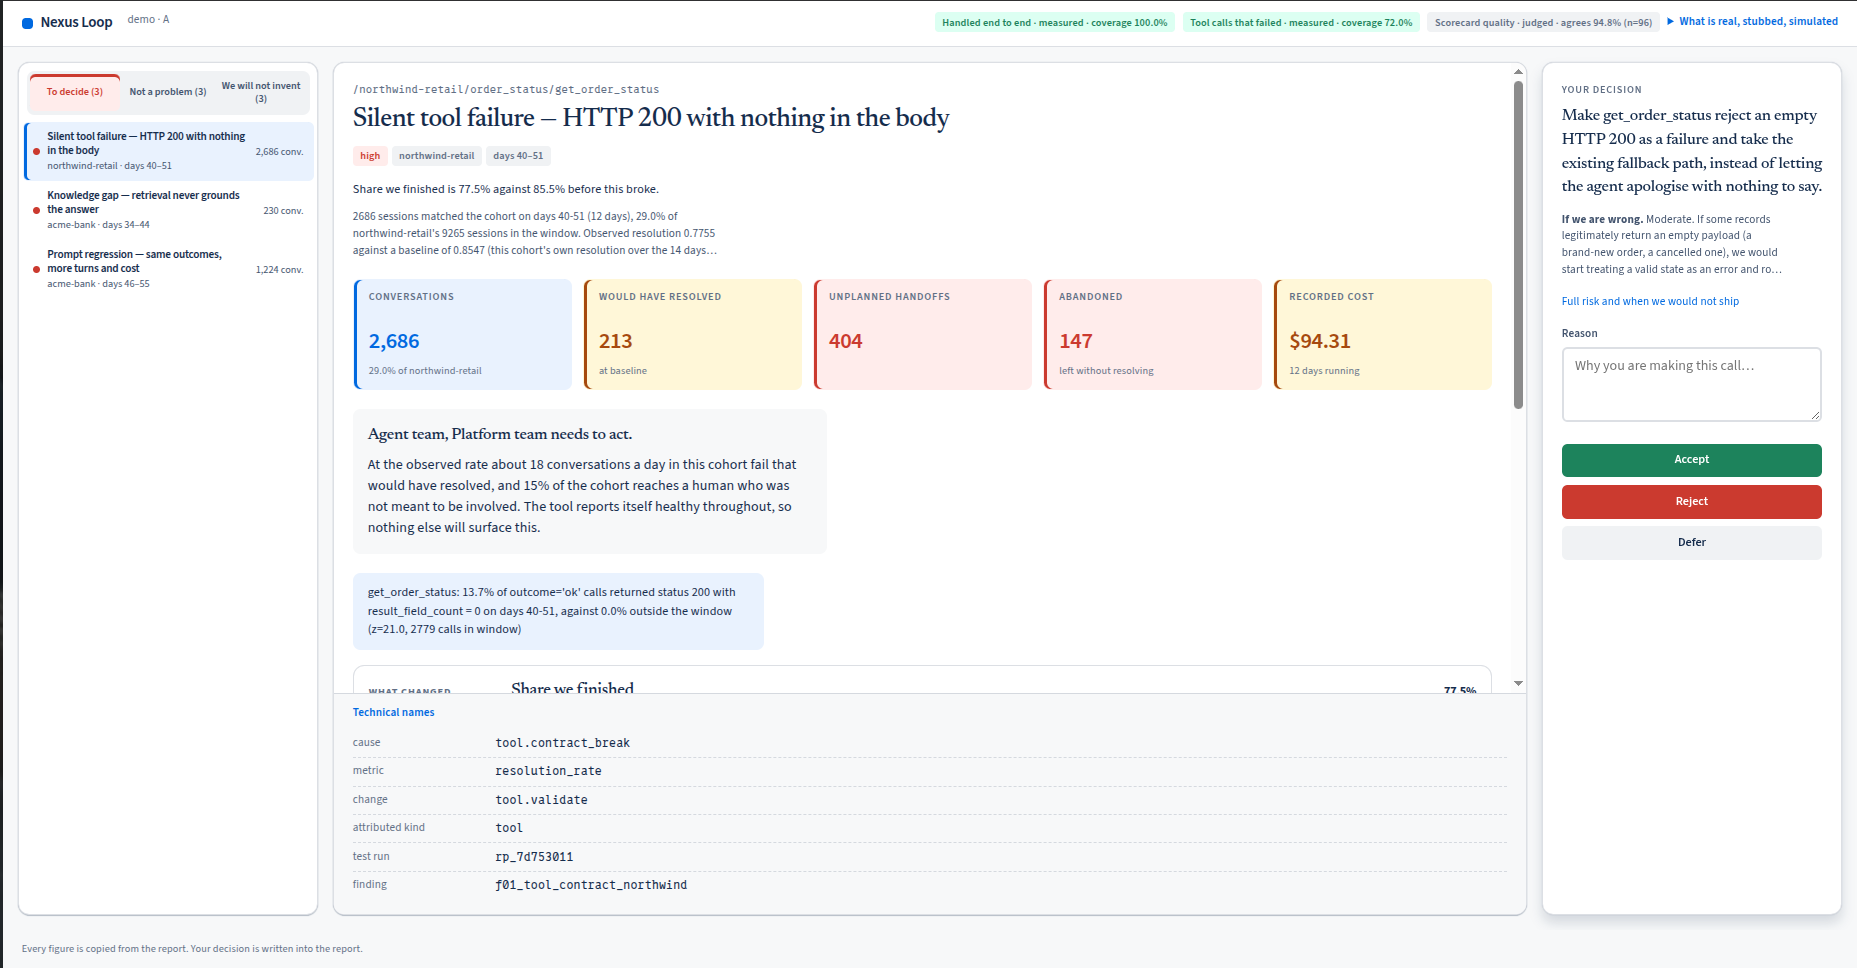
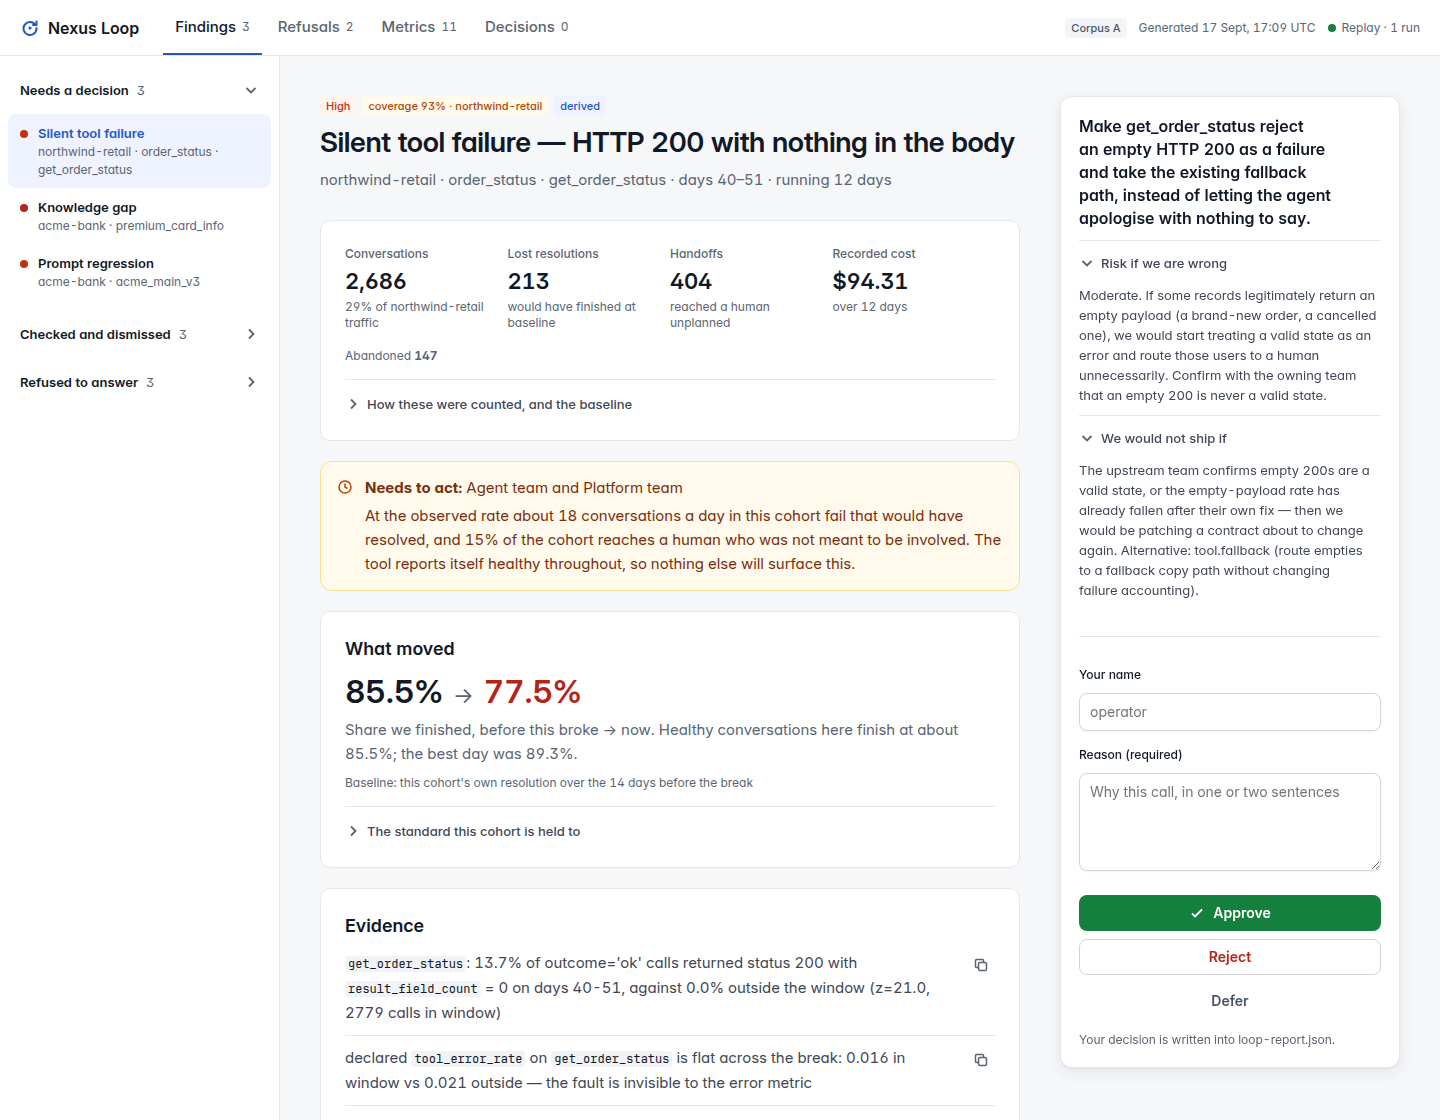
Report: refresh operator screen section and figure to the shipped console

diff --git a/report/figures/make_figures.py b/report/figures/make_figures.py
@@ -311,59 +311,10 @@ def fig_diagnosis():
     plt.close(fig)
 
 
-# ---------------------------------------------------------------- fig: operator screen
-def fig_screen():
-    fig, ax = plt.subplots(figsize=(3.5, 3.1))
-    ax.set_xlim(0, 100); ax.set_ylim(0, 100); ax.axis("off")
-    ax.add_patch(Rectangle((1, 1), 98, 98, fc="#f1f0ec", ec="#c7c7c4", lw=0.8))
-    # header
-    ax.add_patch(Rectangle((1, 90), 98, 9, fc=NAVY_D, ec=NAVY_D))
-    ax.text(4, 94.5, "Nexus Loop", color="white", fontsize=7.5, weight="bold", va="center")
-    ax.text(96, 94.5, "corpus A · acme + northwind", color="#c9d3e0", fontsize=5.2, va="center", ha="right")
-    # tabs
-    ax.add_patch(Rectangle((1, 83), 98, 7, fc="white", ec=LINE, lw=0.6))
-    ax.text(3, 86.5, "To decide: Silent tool · KB gap · Prompt   |   Not a problem: load · mix · judge   |   We will not invent: A11 · A09 · A02",
-            fontsize=4.0, va="center", color=SLATE)
-    # brief
-    ax.add_patch(FancyBboxPatch((3, 40), 60, 40, boxstyle="round,pad=0.4,rounding_size=1", fc="white", ec=LINE, lw=0.7))
-    ax.text(5, 76, "Silent tool failure — empty HTTP 200", fontsize=5.6, color=NAVY_D, weight="bold")
-    ax.text(5, 72.3, "HIGH · tool.contract_break · northwind-retail · days 40–51", fontsize=4.0, color=RED)
-    for i, (v, l) in enumerate([("2,686", "conversations"), ("213", "would resolve"), ("404", "handoffs")]):
-        ax.text(6 + i * 19, 66, v, fontsize=6.6, color=NAVY_D, weight="bold")
-        ax.text(6 + i * 19, 62.5, l, fontsize=3.9, color=SLATE)
-    ax.text(5, 55, "Observed 0.7755 vs baseline 0.8547; ~18/day fail", fontsize=4.1, color=NAVY_D)
-    ax.text(5, 51, "that would have resolved. Cause tool.contract_break.", fontsize=4.1, color=NAVY_D)
-    ax.text(5, 47, "Attributed get_order_status 3.2.0→3.3.0 (day 40).", fontsize=4.1, color=NAVY_D)
-    ax.text(5, 43, "Fix tool.validate → resolution 0.8468.", fontsize=4.1, color=NAVY_D)
-    ax.text(5, 41, "▸ Evidence and why this baseline is fair", fontsize=4.0, color=NAVY)
-    # gate
-    ax.add_patch(FancyBboxPatch((66, 40), 31, 40, boxstyle="round,pad=0.4,rounding_size=1", fc="white", ec=LINE, lw=0.7))
-    ax.text(68, 76, "Your call", fontsize=4.8, color=SLATE)
-    ax.text(68, 72, "Make get_order_status reject", fontsize=4.0, color=NAVY_D)
-    ax.text(68, 69, "an empty 200 and take the", fontsize=4.0, color=NAVY_D)
-    ax.text(68, 66, "existing fallback path.", fontsize=4.0, color=NAVY_D)
-    ax.text(68, 61.5, "Reason (required)", fontsize=4.0, color=SLATE)
-    ax.add_patch(Rectangle((67.5, 53), 28, 6.5, fc="#fbfbf9", ec=LINE, lw=0.5, ls="--"))
-    for i, (lab, fc, ec, tc) in enumerate([("Accept", GREEN, GREEN, "white"), ("Reject", "#fdecec", RED, RED), ("Defer", "white", SLATE, NAVY_D)]):
-        ax.add_patch(FancyBboxPatch((68, 48.5 - i * 4.2), 27, 3.5, boxstyle="round,pad=0.15,rounding_size=0.6", fc=fc, ec=ec, lw=0.6))
-        ax.text(81.5, 50.2 - i * 4.2, lab, fontsize=4.2, color=tc, ha="center", va="center")
-    # honesty strip
-    ax.text(3, 34, "coverage 0.72/0.93 · fidelity chips · ▸ what is real / stubbed / simulated", fontsize=4.0, color=SLATE)
-    # other findings
-    ax.add_patch(FancyBboxPatch((3, 4), 94, 27, boxstyle="round,pad=0.4,rounding_size=1", fc="white", ec=LINE, lw=0.7))
-    ax.text(5, 27, "Other observations", fontsize=4.8, color=SLATE)
-    ax.text(5, 22.5, "Not a problem · traffic mix — per-intent containment flat; a campaign, not quality.", fontsize=4.1, color=NAVY_D)
-    ax.text(5, 18.5, "Not a problem · load — volume ×3.5, p95 latency up, resolution flat.", fontsize=4.1, color=NAVY_D)
-    ax.text(5, 14.5, "Not a problem · judge change — quality drops on every tenant at v1→v2.", fontsize=4.1, color=NAVY_D)
-    ax.text(5, 10.5, "We will not invent · A11 failover — required event named; retry is not failover.", fontsize=4.1, color=AMBER)
-    ax.text(5, 6.5, "We will not invent · A02 customer_ref — 80,252 distinct vs budget 200.", fontsize=4.1, color=AMBER)
-    ax.set_title("Operator screen — one brief, one signature (schematic)", fontsize=8.0, color=NAVY_D)
-    fig.tight_layout()
-    fig.savefig(os.path.join(HERE, "operator_screen.png"), bbox_inches="tight")
-    plt.close(fig)
 
 
 if __name__ == "__main__":
     fig_window_scan(); fig_coverage(); fig_standard(); fig_results()
-    fig_architecture(); fig_diagnosis(); fig_screen()
+    fig_architecture(); fig_diagnosis()
+    # operator_screen.png is a live capture of the running console, not a generated schematic
     print("figures written to", HERE)

diff --git a/report/endterm-report.tex b/report/endterm-report.tex
@@ -970,19 +970,26 @@ comes from the method rather than from a fit to the practice data.
 \section{Operator Screen}
 
 The screen is one brief and one signature rather than a dashboard. The
-header carries the coverage and fidelity chips and a disclosure for what
-is real, stubbed and simulated. A one-line switcher has three views:
-\textbf{To decide} (the regressions), \textbf{Not a problem} (the
-lookalikes we examined and dismissed), and \textbf{We will not invent}
-(the refusals, failover first). The brief shows the claim, three harm
-numbers, the consequence of waiting, the cause, the proposed change and
-the replay. Evidence and baseline working sit under a disclosure, and
-the detector codes sit in a Technical names footer. The sticky panel
-carries the ask, the risk and the no-ship condition, and a traffic-light
-gate: a green Accept, a red Reject, and a grey Defer, each with a
-required reason. Arrow keys and Home/End move the selection through a
-long queue. The claim is set in Newsreader and the chrome in Source Sans
-3, with system fallbacks when the page cannot reach the web fonts.
+left rail groups the queue into \textbf{Needs a decision},
+\textbf{Checked and dismissed} and \textbf{Refused to answer}, and the
+header carries the active section as four tabs --- Findings, Refusals,
+Metrics, Decisions --- each with its live count, alongside the corpus,
+the generation time and a Replay badge. The brief shows the claim, a
+severity chip and a coverage chip scoped to the tenant, the cohort and
+window, the before $\rightarrow$ now metric, four harm counters
+(conversations, lost resolutions, handoffs, recorded cost), a
+\textbf{Needs to act} callout naming the owners and the consequence of
+waiting, and a \textbf{What moved} card that states the cohort's own
+baseline inline and keeps the counting rules and the standard under
+disclosure. Evidence sits below with a copy button per line. The sticky
+panel carries the proposed change, the risk and the no-ship condition,
+the required name and reason, and the gate --- a green Approve, a red
+Reject and a grey Defer --- with a note that the decision is written back
+into \texttt{loop-report.json}. The refusals section leads with the
+failover question, the clearest case of a number we refuse to invent.
+Sections deep-link by hash (\texttt{\#/findings/<id>},
+\texttt{\#/refusals/<ask>}), and the surface is set in bundled Inter and
+JetBrains Mono with no network call.
 
 \begin{figure*}[t]
     \centering

diff --git a/report/endterm-report.md b/report/endterm-report.md
@@ -425,7 +425,7 @@ The held-out corpora were generated by a separate harness that renames labels, r
 
 ## 16. Operator screen
 
-The screen is one brief and one signature rather than a dashboard. The header carries the coverage and fidelity chips and a disclosure for what is real, stubbed and simulated. A one-line switcher has three views: **To decide** (the regressions), **Not a problem** (the lookalikes we examined and dismissed), and **We will not invent** (the refusals, failover first). The brief shows the claim, three harm numbers, the consequence of waiting, the cause, the proposed change and the replay. Evidence and baseline working sit under a disclosure, and the detector codes sit in a Technical names footer. The sticky panel carries the ask, the risk and the no-ship condition, and a traffic-light gate: a green Accept, a red Reject, and a grey Defer, each with a required reason. Arrow keys and Home/End move the selection through a long queue. The claim is set in Newsreader and the chrome in Source Sans 3, with system fallbacks when the page cannot reach the web fonts.
+The screen is one brief and one signature rather than a dashboard. The left rail groups the queue into **Needs a decision**, **Checked and dismissed** and **Refused to answer**, and the header carries the active section as four tabs — Findings, Refusals, Metrics, Decisions — each with its live count, alongside the corpus, the generation time and a Replay badge. The brief shows the claim, a severity chip and a coverage chip scoped to the tenant, the cohort and window, the before → now metric, four harm counters (conversations, lost resolutions, handoffs, recorded cost), a **Needs to act** callout naming the owners and the consequence of waiting, and a **What moved** card that states the cohort's own baseline inline and keeps the counting rules and the standard under disclosure. Evidence sits below with a copy button per line. The sticky panel carries the proposed change, the risk and the no-ship condition, the required name and reason, and the gate — a green Approve, a red Reject and a grey Defer — with a note that the decision is written back into `loop-report.json`. The refusals section leads with the failover question, the clearest case of a number we refuse to invent. Sections deep-link by hash (`#/findings/<id>`, `#/refusals/<ask>`), and the surface is set in bundled Inter and JetBrains Mono with no network call.
 
 ![Operator screen](figures/operator_screen.png)
 
